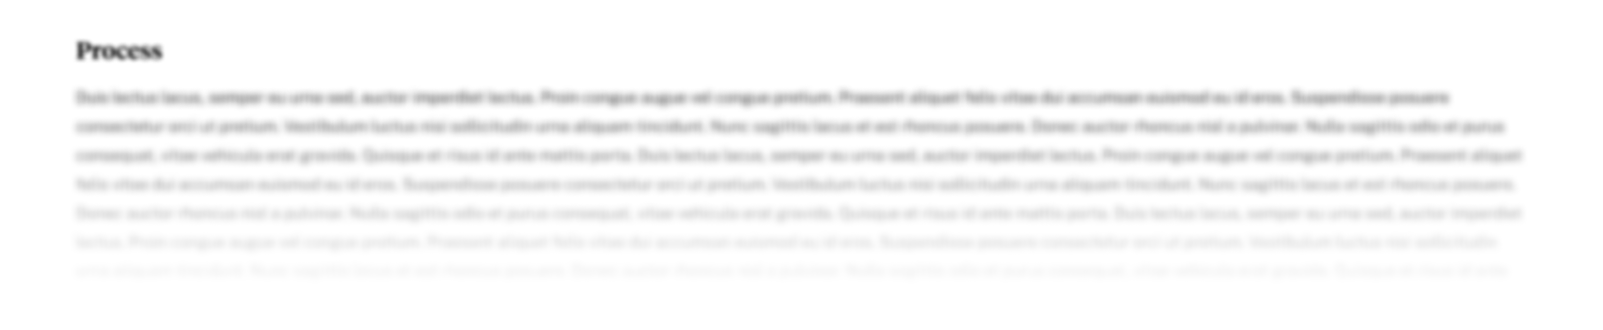
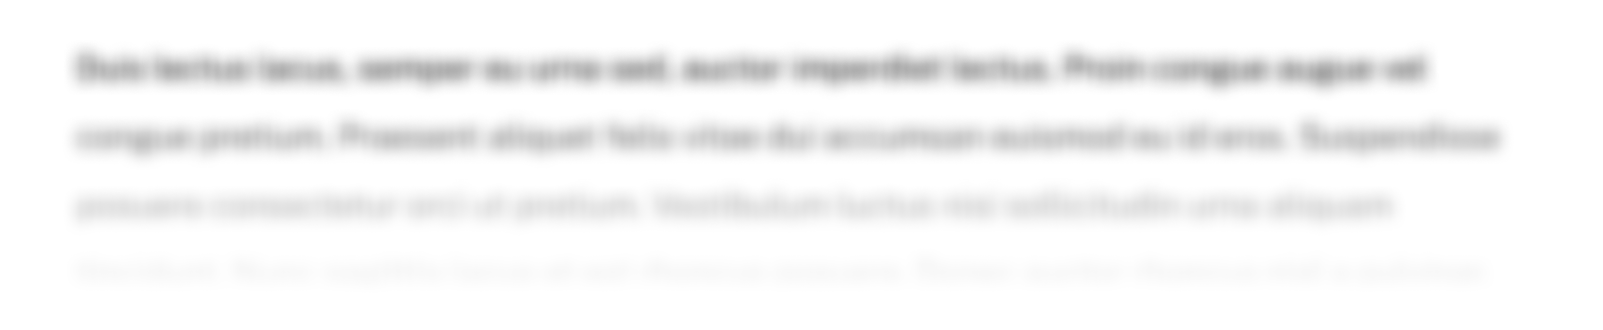
chore: updated process img

diff --git a/src/pages/electronic-arts/index.md b/src/pages/electronic-arts/index.md
@@ -29,7 +29,9 @@ To create these cross-play services, I co-designed and continue to own all socia
 
 Currently, blockbuster games like [Apex Legends](https://www.ea.com/games/apex-legends/news/ea-play-announcements) and [Star Wars: Squadrons](https://www.ea.com/games/starwars/squadrons/tips-and-tricks/how-to-play-with-friends-in-star-wars-squadrons) have already adopted crossplay functionality, which is defined by the design system I helped create. As a result, players of both franchises can now play with any other player across consoles and devices.
 
-![](./ea-process.png)
+## Process
+
+![ ](./ea-process.png)
 
 ---
 
